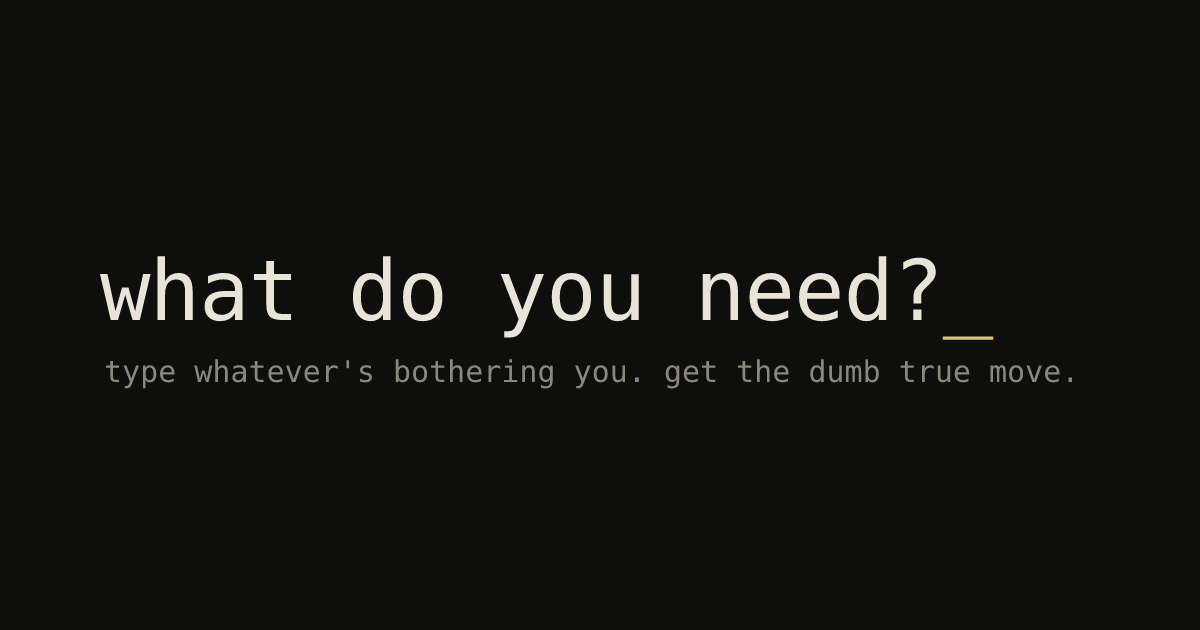
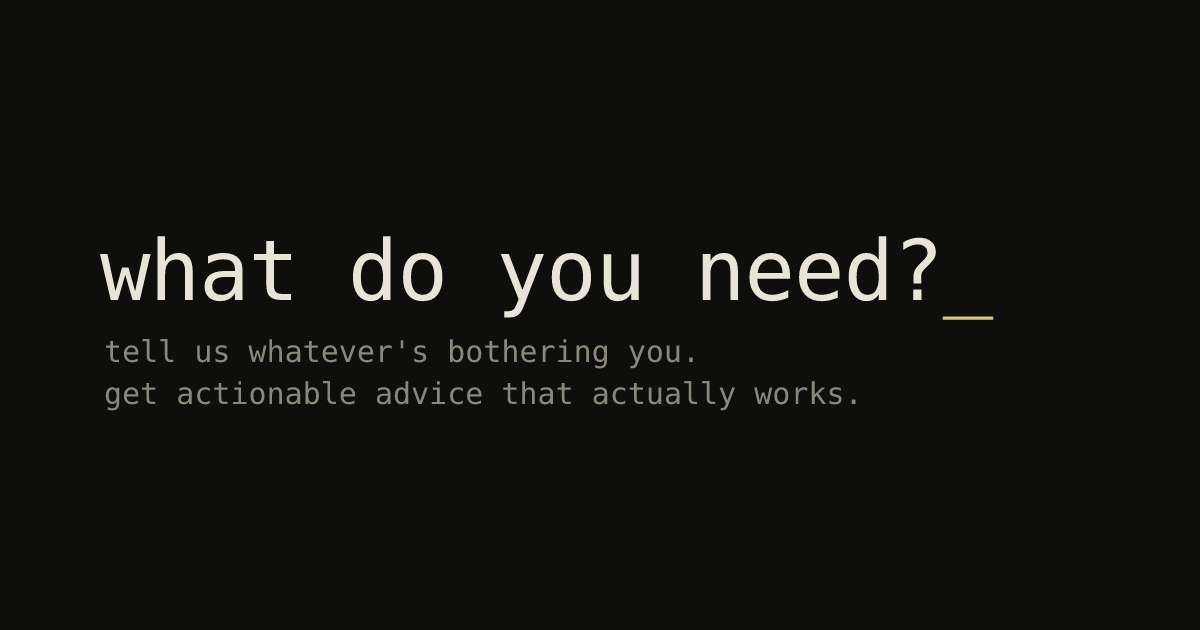
update og card copy; left-align example chip text on mobile
- og card (and matching og/twitter/meta descriptions) now read 'tell us
  whatever's bothering you. get actionable advice that actually works.',
  wrapped to two lines on the image.
- example chips now left-align their text, so wrapping chips no longer center
  their second line on mobile.

https://claude.ai/code/session_01PkCaSeRu7NtcAFTfJfvR5s

diff --git a/index.html b/index.html
@@ -4,7 +4,7 @@
     <meta charset="UTF-8" />
     <meta name="viewport" content="width=device-width, initial-scale=1.0" />
     <title>what do you need?</title>
-    <meta name="description" content="type in whatever's bothering you. get told the dumb true thing to do about it." />
+    <meta name="description" content="tell us whatever's bothering you. get actionable advice that actually works." />
     <meta name="theme-color" content="#0e0e0c" />
 
     <!-- social preview. og:image is relative so it resolves on whatever domain
@@ -13,13 +13,13 @@
          (e.g. https://yourdomain.com/og.png) for the widest scraper support. -->
     <meta property="og:type" content="website" />
     <meta property="og:title" content="what do you need?" />
-    <meta property="og:description" content="type whatever's bothering you. get the dumb true move." />
+    <meta property="og:description" content="tell us whatever's bothering you. get actionable advice that actually works." />
     <meta property="og:image" content="/og.png" />
     <meta property="og:image:width" content="1200" />
     <meta property="og:image:height" content="630" />
     <meta name="twitter:card" content="summary_large_image" />
     <meta name="twitter:title" content="what do you need?" />
-    <meta name="twitter:description" content="type whatever's bothering you. get the dumb true move." />
+    <meta name="twitter:description" content="tell us whatever's bothering you. get actionable advice that actually works." />
     <meta name="twitter:image" content="/og.png" />
   </head>
   <body>

diff --git a/src/styles.css b/src/styles.css
@@ -299,6 +299,7 @@ body {
   border: 1px solid var(--line);
   color: var(--ink-dim);
   font: inherit;
+  text-align: left;
   text-transform: lowercase;
   padding: 6px 12px;
   border-radius: 999px;
